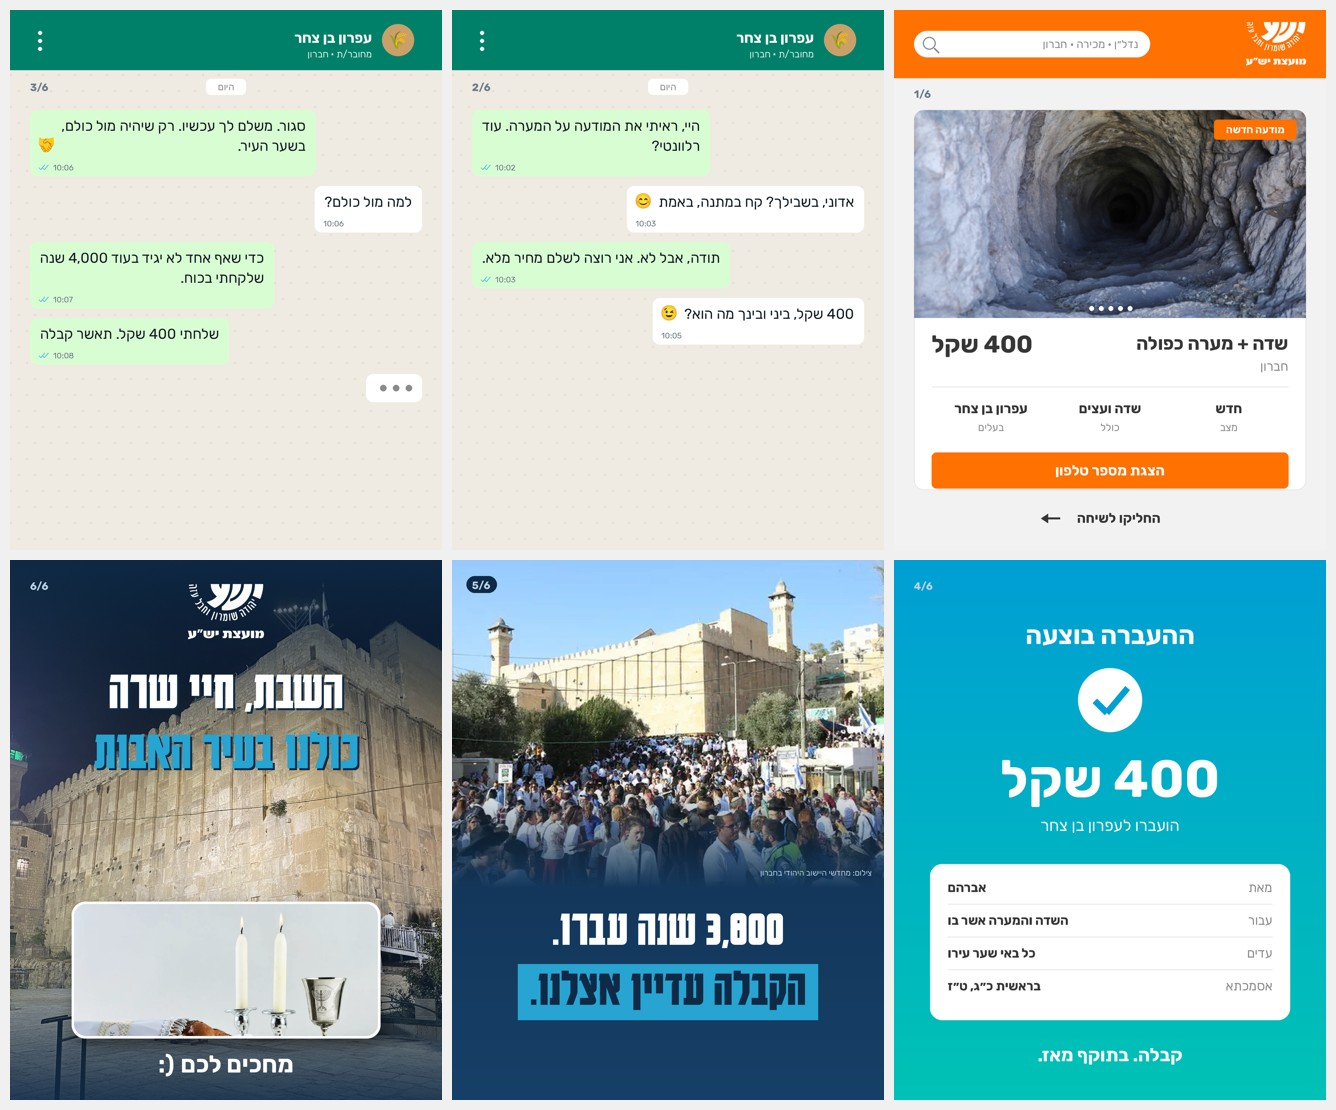
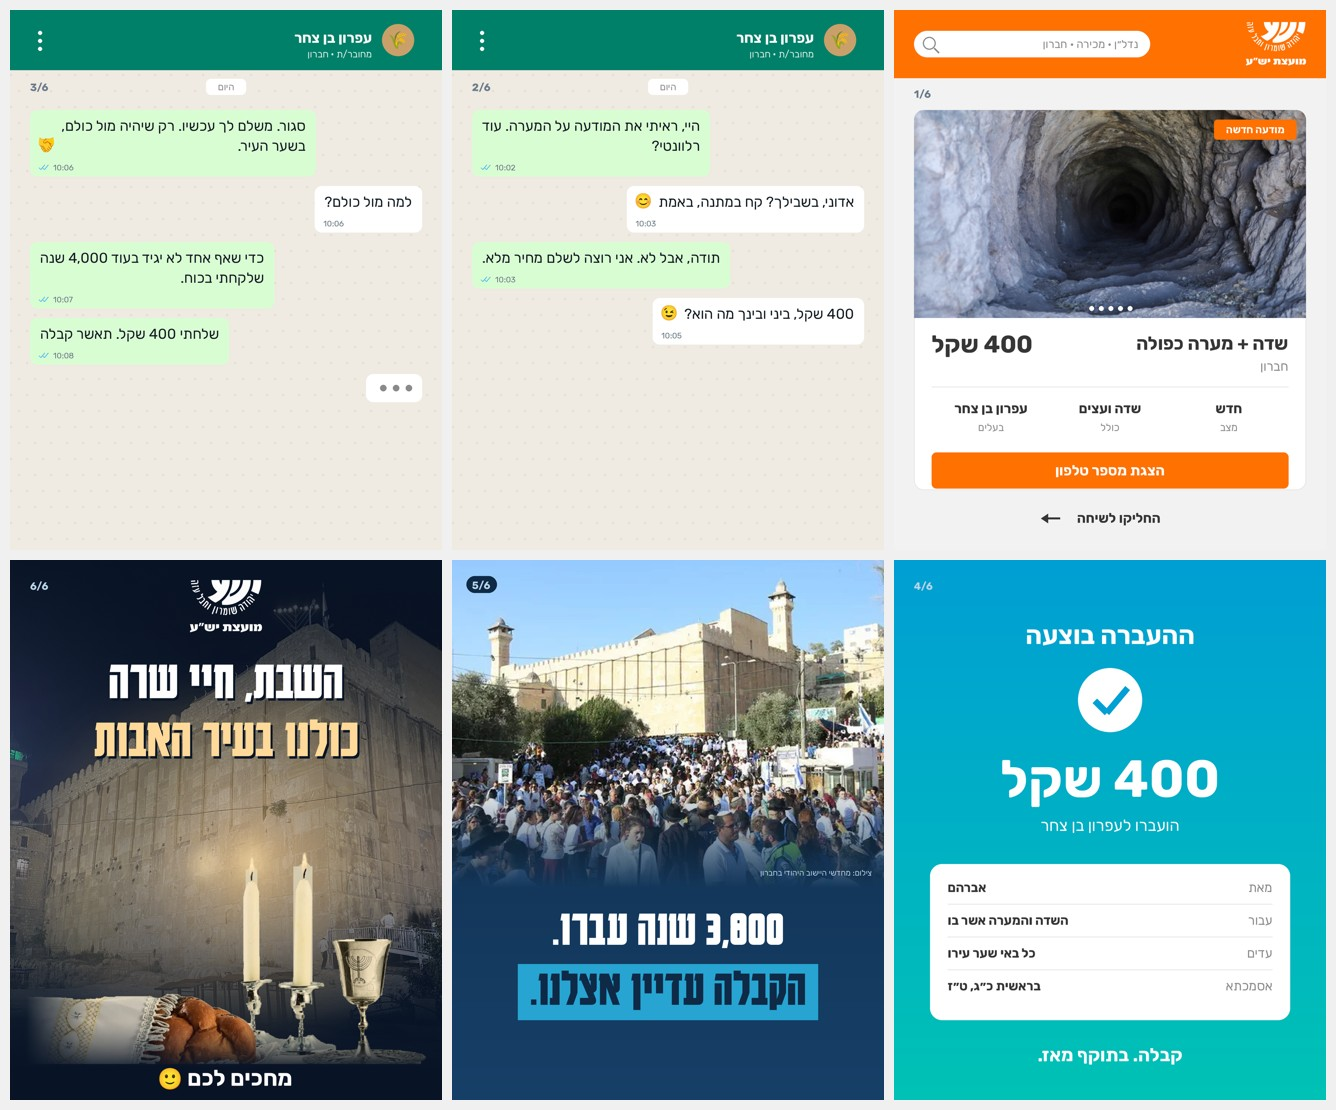
Yesha Hebron carousel: closer rebuilt, Shabbat table cut out and lit in front of the Machpela at night
Claude-Session: https://claude.ai/code/session_01RS3QK6pAd3YhyAuXZSJjH1

Changed region(s): [[0.0, 0.4901, 0.3376, 1.0]]

diff --git a/content-kit/yesha/2026-11-hebron-chat-carousel/make.py b/content-kit/yesha/2026-11-hebron-chat-carousel/make.py
@@ -160,29 +160,55 @@ def s5():
     tx = TW(d, 'הקבלה עדיין אצלנו.', KB, 130); d.rectangle(P(W / 2 - tx / 2 - 30, 1010, W / 2 + tx / 2 + 30, 1150), fill=LB)
     T(d, (W / 2, 1000), 'הקבלה עדיין אצלנו.', KB, 130, DEEP, anchor='ma'); save(img, 5)
 def s6():
+    """Closer: Ma'arat HaMachpela at night, the Shabbat table (cut out) in the foreground, lit by its own candles."""
+    import numpy as np
     img, d = canvas(DEEP)
-    bg = cover(Image.open(OUT + '/machpela-night.jpg').convert('RGB'), W * S, H * S, fy=.15).convert('RGBA')
-    img.alpha_composite(bg)
+    bg = cover(Image.open(OUT + '/machpela-night.jpg').convert('RGB'), W * S, H * S, fy=.0)
+    bg = Image.blend(bg, Image.new('RGB', bg.size, (0x0A, 0x18, 0x2E)), .42)            # pull it into the brand's night blue
+    img.alpha_composite(bg.convert('RGBA'))
     sh = Image.new('RGBA', img.size, (0, 0, 0, 0)); sd = ImageDraw.Draw(sh)
-    for y in range(H * S):                                   # dark at the top for the text, warm-dark at the bottom for the Shabbat card
-        t = y / (H * S); a = int(235 * max(0, 1 - t / .42) ** 1.2 + 230 * max(0, (t - .55) / .45) ** 1.3)
-        sd.line([(0, y), (W * S, y)], fill=DEEP + (min(235, a),))
-    img.alpha_composite(sh); d = ImageDraw.Draw(img)
-    lw = 190; lg = WL.resize((lw * S, int(lw * S * WL.height / WL.width)), Image.LANCZOS); img.alpha_composite(lg, (int((W - lw) / 2 * S), 60 * S)); d = ImageDraw.Draw(img)
+    for y in range(H * S):
+        t = y / (H * S); a_ = int(225 * max(0, 1 - t / .38) ** 1.3 + 255 * max(0, (t - .56) / .30) ** 1.2)
+        sd.line([(0, y), (W * S, y)], fill=(0x08, 0x14, 0x26, min(245, a_)))
+    img.alpha_composite(sh)
+    # the table: items cut from the photo, standing on a soft warm ledge
+    it = Image.open(OUT + '/shabbat_cut.png').convert('RGBA'); it = it.crop(it.getchannel('A').getbbox())
+    iw = int(1000 * S); it = it.resize((iw, int(iw * it.height / it.width)), Image.LANCZOS)
+    ix, iy = int(40 * S), int(H * S - it.height - 90 * S)
+    ledge = Image.new('RGBA', img.size, (0, 0, 0, 0)); ld = ImageDraw.Draw(ledge)
+    ld.ellipse((ix - 60 * S, iy + it.height - 70 * S, ix + iw + 60 * S, iy + it.height + 90 * S), fill=(0xF2, 0xC1, 0x7A, 90))
+    # warm candle glow behind the items (flames sit ~4-12% from the top of the cut, at ~45% and ~57% across)
+    glow = Image.new('L', img.size, 0); gd = ImageDraw.Draw(glow)
+    for fx, fy in ((.448, .07), (.562, .055)):
+        cx, cy = ix + iw * fx, iy + it.height * fy
+        for r, v in ((420, 40), (240, 80), (110, 150), (40, 230)): gd.ellipse((cx - r * S, cy - r * S, cx + r * S, cy + r * S), fill=v)
+    glow = glow.filter(ImageFilter.GaussianBlur(50 * S))
+    warm = Image.new('RGBA', img.size, (0xFF, 0xC9, 0x7A, 0)); warm.putalpha(glow.point(lambda v: int(v * .85)))
+    img.alpha_composite(warm)
+    # items, slightly warmed so they belong to the candle-lit scene, with a contact shadow
+    arr = np.asarray(it).astype(np.float32); arr[..., 0] *= 1.0; arr[..., 1] *= .93; arr[..., 2] *= .80
+    it2 = Image.fromarray(arr.clip(0, 255).astype(np.uint8), 'RGBA')
+    fadeL = Image.new('L', it.size, 255); fdl = ImageDraw.Draw(fadeL)                 # soften the photo's hard left edge (the cloth)
+    for x in range(int(160 * S)): fdl.line([(x, 0), (x, it.height)], fill=int(255 * x / (160 * S)))
+    it2.putalpha(Image.fromarray(np.minimum(np.asarray(it2.getchannel('A')), np.asarray(fadeL))))
+    img.alpha_composite(it2, (ix, iy))
+    # flame bloom on top
+    bloom = Image.new('L', img.size, 0); bd = ImageDraw.Draw(bloom)
+    for fx, fy in ((.448, .07), (.562, .055)):
+        cx, cy = ix + iw * fx, iy + it.height * fy; bd.ellipse((cx - 26 * S, cy - 40 * S, cx + 26 * S, cy + 30 * S), fill=255)
+    bloom = bloom.filter(ImageFilter.GaussianBlur(22 * S)); fl = Image.new('RGBA', img.size, (0xFF, 0xE6, 0xB0, 0)); fl.putalpha(bloom.point(lambda v: int(v * .7)))
+    img.alpha_composite(fl)
+    bot = Image.new('RGBA', img.size, (0, 0, 0, 0)); bd2 = ImageDraw.Draw(bot)          # the table fades into the night under the text
+    for y in range(int(1150 * S), H * S):
+        t = (y / S - 1150) / (H - 1150); bd2.line([(0, y), (W * S, y)], fill=(0x08, 0x14, 0x26, int(250 * min(1, t * 1.6) ** 1.2)))
+    img.alpha_composite(bot)
+    d = ImageDraw.Draw(img)
+    lw = 180; lg = WL.resize((lw * S, int(lw * S * WL.height / WL.width)), Image.LANCZOS); img.alpha_composite(lg, (int((W - lw) / 2 * S), 50 * S)); d = ImageDraw.Draw(img)
     counter(d, 6, y=50)
-    for tx_, y_, col in (('השבת, חיי שרה', 250, WHITE), ('כולנו בעיר האבות', 400, LB)):
-        T(d, (W / 2 + 5, y_ + 5), tx_, KB, 140, DEEP, anchor='ma'); T(d, (W / 2, y_), tx_, KB, 140, col, anchor='ma')
-    # Shabbat table card
-    cw, ch = 760, 330; cx0, cy0 = (W - cw) / 2, 860
-    card = cover(Image.open(OUT + '/shabbat.jpg').convert('RGB'), int(cw * S), int(ch * S), fy=.05).convert('RGBA')
-    m = Image.new('L', card.size, 0); ImageDraw.Draw(m).rounded_rectangle((0, 0, card.width - 1, card.height - 1), 30 * S, fill=255)
-    shadow = Image.new('RGBA', img.size, (0, 0, 0, 0)); ImageDraw.Draw(shadow).rounded_rectangle(P(cx0 + 8, cy0 + 18, cx0 + cw + 8, cy0 + ch + 18), 30 * S, fill=(0, 0, 0, 140))
-    img.alpha_composite(shadow.filter(ImageFilter.GaussianBlur(20 * S)))
-    d = ImageDraw.Draw(img); d.rounded_rectangle(P(cx0 - 6, cy0 - 6, cx0 + cw + 6, cy0 + ch + 6), 34 * S, fill=WHITE)
-    img.paste(card, P(cx0, cy0), m); d = ImageDraw.Draw(img)
-    tw_ = TW(d, 'מחכים לכם', RB, 60); sw = d.textlength(':)', font=F(RB, 60)) / S; x = W / 2 + (tw_ + 16 + sw) / 2
-    T(d, (x, 1225), 'מחכים לכם', RB, 60, WHITE, anchor='ra')
-    d.text(P(x - tw_ - 16 - sw, 1225), ':)', font=F(RB, 60), fill=WHITE, anchor='la'); save(img, 6)
+    for tx_, y_, col in (('השבת, חיי שרה', 225, WHITE), ('כולנו בעיר האבות', 370, (0xFF, 0xD9, 0x9A))):
+        T(d, (W / 2 + 5, y_ + 6), tx_, KB, 140, (0x08, 0x14, 0x26), anchor='ma'); T(d, (W / 2, y_), tx_, KB, 140, col, anchor='ma')
+    tw_ = TW(d, 'מחכים לכם', RB, 56); x = W / 2 + (tw_ + 16 + 54) / 2
+    T(d, (x, 1262), 'מחכים לכם', RB, 56, WHITE, anchor='ra'); emoji(img, '🙂', x - tw_ - 16 - 54, 1270, 54); save(img, 6)
 
 for f in os.listdir(OUT):
     if f.startswith('slide-'): os.remove(OUT + '/' + f)
